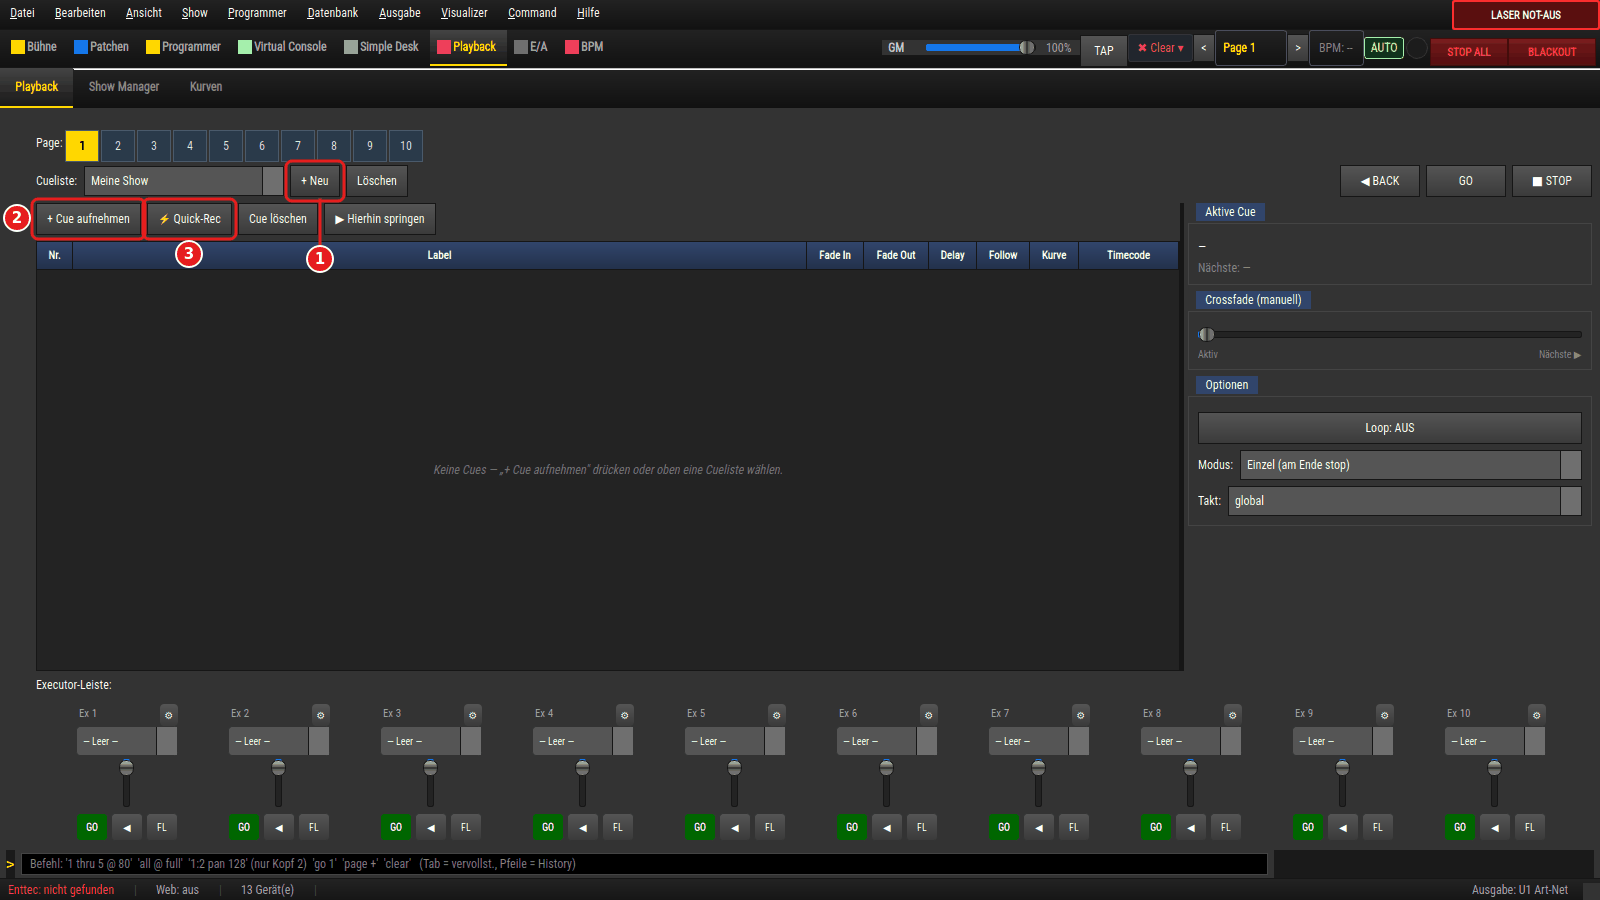
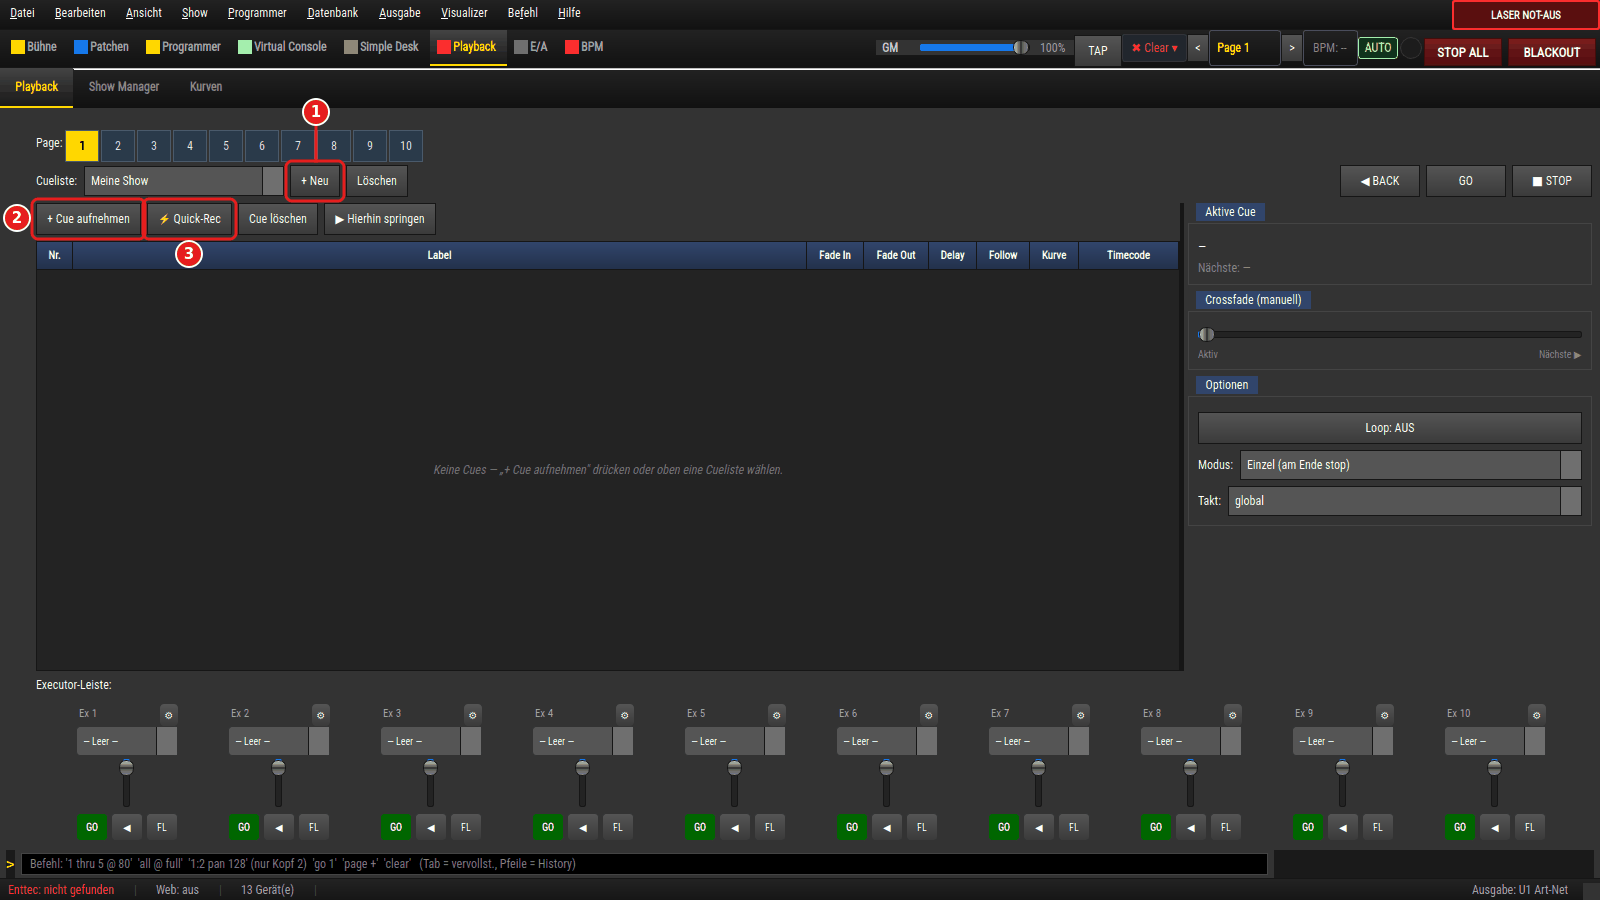
docs: Anleitungsbilder nachgebessert (DOC-16)
Nach der Gegenpruefung der neu gerenderten Bilder:

- VC-Cueliste (szenen_cues/10, showcase club_01/theater_01) nach dem
  UI-144-Fix neu gerendert: die laufende Cue ist wieder blau hinterlegt.
- Fixture-Editor fuer die Aufnahme 830 statt 760 px hoch (seit FM-64 ist
  der Kopf hoeher): in 06 ist die Kanal-Knopfreihe samt Markierung 4 ganz
  sichtbar (die Szene prueft das und bricht sonst ab), 04 zeigt alle sechs
  Kanalzeilen; 05/07 folgen derselben Groesse. Der Rahmen 1 um den Kopf
  in 04 rechnet jetzt aus dem Rollbereich in Dialog-Koordinaten um.
- Nummernkreis: neue Lage "innen" (freie Ecke im eigenen Rahmen, auch in
  kleinen Kacheln) und fester Versatz (dx, dy) fuer Stellen ohne freien
  Platz. Genutzt in 05_snapshots (Kreis 2 im Slot statt auf "Speichern"),
  09_go (Kreis 4 oben rechts in "Aktive Cue") und 07_cueliste_neu (Kreis 1
  wieder ueber "+ Neu" statt auf der Tabellenkopfzeile).
- Test: tests/test_doc16_marker_innen_versatz.py.

diff --git a/tests/test_doc16_marker_innen_versatz.py b/tests/test_doc16_marker_innen_versatz.py
@@ -1,0 +1,98 @@
+"""DOC-16 (Nachbesserung nach der Gegenpruefung) — zwei Lagen fuer den Nummernkreis.
+
+Reine Geometrie von ``marker.platzieren`` (nur ``QRect``/``QPoint``, keine App):
+
+* ``"innen"``: eine Kachel, die rundum Nachbarn hat (Snapshot-Slot zwischen
+  Slot 1, Slot 3, der Werkzeugleiste und Slot 14), bekommt den Kreis in eine
+  freie Ecke INNERHALB des eigenen Rahmens — auch wenn der Rahmen kleiner ist,
+  als die Suche sonst fuer „innen" verlangt. Vorher landete er auf dem
+  Nachbarknopf „Speichern".
+* ``(dx, dy)``: fester Versatz zur Rahmenmitte, mit Verbindungslinie, wenn der
+  Kreis nicht am Rahmen haengt; ins Bild geklemmt.
+* Ohne Angabe bleibt die alte Wahl (kleine Kachel -> nie innen).
+"""
+import os
+import sys
+import unittest
+
+REPO = os.path.dirname(os.path.dirname(os.path.abspath(__file__)))
+TOOLS = os.path.join(REPO, "tools")
+if TOOLS not in sys.path:
+    sys.path.insert(0, TOOLS)
+
+
+class InnenUndVersatzTest(unittest.TestCase):
+    def setUp(self):
+        from PySide6.QtCore import QRect
+        from anleitungsbilder import marker
+        self.m, self.QRect = marker, QRect
+        # Slot 2 (96 x 40) zwischen Nachbarn wie im Bild 05_snapshots.
+        self.slot = QRect(133, 207, 96, 40)
+        self.nachbarn = [
+            QRect(36, 207, 94, 40),      # Slot 1
+            QRect(232, 207, 94, 40),     # Slot 3
+            QRect(133, 251, 96, 40),     # Slot 14
+            QRect(36, 170, 72, 30),      # Alle leeren
+            QRect(115, 170, 68, 30),     # Speichern
+            QRect(189, 170, 51, 30),     # Laden
+            QRect(246, 170, 87, 30),     # Importieren...
+        ]
+
+    def _innen(self, c, rahmen):
+        f = self.m._kreisfeld(c)
+        return rahmen.contains(f)
+
+    def test_innen_setzt_kreis_in_den_eigenen_rahmen(self):
+        (c, linie, gefunden), = self.m.platzieren(
+            [self.slot], 1600, 900, self.nachbarn, ["innen"])
+        self.assertTrue(gefunden)
+        self.assertFalse(linie)
+        rahmen = self.m.rahmen_von(self.slot, 1600, 900)
+        self.assertTrue(self._innen(c, rahmen), c)
+        feld = self.m._kreisfeld(c)
+        for n in self.nachbarn:
+            self.assertFalse(feld.intersects(n), (c, n))
+
+    def test_ohne_innen_bleibt_kleine_kachel_aussen(self):
+        (c, _linie, _gefunden), = self.m.platzieren(
+            [self.slot], 1600, 900, self.nachbarn, [None])
+        rahmen = self.m.rahmen_von(self.slot, 1600, 900)
+        self.assertFalse(self._innen(c, rahmen), c)
+
+    def test_innen_respektiert_andere_rahmen_und_kreise(self):
+        # Zwei Slots nebeneinander, beide innen: die Kreise beruehren sich nicht
+        # und keiner sitzt im Rahmen des anderen.
+        a, b = self.QRect(36, 207, 94, 40), self.slot
+        (ca, _l1, g1), (cb, _l2, g2) = self.m.platzieren(
+            [a, b], 1600, 900, self.nachbarn[2:], ["innen", "innen"])
+        self.assertTrue(g1 and g2)
+        self.assertFalse(self.m._kreisfeld(ca).intersects(self.m._kreisfeld(cb)))
+        self.assertTrue(self._innen(ca, self.m.rahmen_von(a, 1600, 900)))
+        self.assertTrue(self._innen(cb, self.m.rahmen_von(b, 1600, 900)))
+
+    def test_fester_versatz_mit_linie(self):
+        ziel = self.QRect(288, 164, 53, 34)            # „+ Neu"
+        (c, linie, gefunden), = self.m.platzieren(
+            [ziel], 1600, 900, self.nachbarn, [(2, -68)])
+        rahmen = self.m.rahmen_von(ziel, 1600, 900)
+        self.assertTrue(gefunden)
+        self.assertEqual((c.x(), c.y()),
+                         (rahmen.center().x() + 2, rahmen.center().y() - 68))
+        self.assertTrue(linie)                          # haengt nicht am Rahmen
+
+    def test_fester_versatz_dicht_am_rahmen_ohne_linie(self):
+        ziel = self.QRect(300, 200, 80, 30)
+        rahmen = self.m.rahmen_von(ziel, 1600, 900)
+        dy = -(rahmen.height() // 2 + self.m._RADIUS + 1)
+        (c, linie, _g), = self.m.platzieren([ziel], 1600, 900, [], [(0, dy)])
+        self.assertFalse(linie)
+
+    def test_fester_versatz_wird_ins_bild_geklemmt(self):
+        ziel = self.QRect(5, 5, 40, 20)
+        (c, _linie, _g), = self.m.platzieren([ziel], 800, 600, [], [(-200, -200)])
+        feld = self.m._kreisfeld(c)
+        self.assertTrue(self.QRect(0, 0, 800, 600).contains(feld), c)
+
+
+if __name__ == "__main__":
+    unittest.main()

diff --git a/tools/anleitungsbilder/marker.py b/tools/anleitungsbilder/marker.py
@@ -19,7 +19,12 @@ der
 * keinen anderen Rahmen und keinen anderen Kreis beruehrt.
 
 Eine in der Szene angegebene Lage (``links``/``rechts``/``oben``/``unten``)
-wird zuerst probiert, bei einer Kollision aber verworfen. :func:`platzieren`
+wird zuerst probiert, bei einer Kollision aber verworfen. ``innen`` setzt den
+Kreis zuerst in eine freie Ecke INNERHALB des Rahmens (auch eines kleinen, etwa
+einer Kachel, die rundum Nachbarn hat). Ein Zahlenpaar ``(dx, dy)`` setzt ihn
+fest um diesen Versatz neben die Rahmenmitte (mit Verbindungslinie, wenn er
+nicht am Rahmen haengt) — nur fuer Stellen, an denen die Suche nichts Freies
+findet. :func:`platzieren`
 ist reine Geometrie (nur ``QRect``/``QPoint``) und ohne App testbar.
 """
 from __future__ import annotations
@@ -182,6 +187,16 @@ def platzieren(ziele, breite: int, hoehe: int, hindernisse=(), vorzuege=None,
     aus = []
     reichweite = _ABSTAENDE[-1] + 2 * r + 6
     for i, ziel in enumerate(ziele):
+        vz = vorzuege[i]
+        if isinstance(vz, (tuple, list)) and len(vz) == 2:
+            # Fester Versatz zur Rahmenmitte: nur fuer Stellen, an denen die
+            # Suche keinen freien Platz findet (die Szene prueft das Bild).
+            m = rahmen[i].center()
+            c = _geklemmt(QPoint(m.x() + int(vz[0]), m.y() + int(vz[1])),
+                          r + 2, breite, hoehe)
+            aus.append((c, _luecke(rahmen[i], c, r) > 5, True))
+            belegt.append(_kreisfeld(c, r))
+            continue
         # Nur was in Reichweite eines Kandidaten liegt (spart Rechenzeit).
         umfeld = rahmen[i].adjusted(-reichweite, -reichweite, reichweite, reichweite)
         nahe = [h for h in hindernisse if h.intersects(umfeld)]
@@ -238,7 +253,16 @@ def platzieren(ziele, breite: int, hoehe: int, hindernisse=(), vorzuege=None,
             g = _geklemmt(c, r + 2, breite, hoehe)
             if abs(g.x() - c.x()) + abs(g.y() - c.y()) <= r:
                 liste.append((g, aussen))
-        for c, aussen in liste:
+        if vorzuege[i] == "innen":
+            # Ausdruecklich innen (z. B. eine Kachel, rundum von Nachbarn
+            # umgeben): auch in einem kleinen Rahmen, und vor allen
+            # Plaetzen aussen. Die Szene stellt sicher, dass die Ecke frei ist.
+            for c, aussen in liste:
+                if not aussen and frei(_kreisfeld(c, r), fremd_innen) \
+                        and eindeutig(c):
+                    wahl = (c, False)
+                    break
+        for c, aussen in ([] if wahl is not None else liste):
             feld = _kreisfeld(c, r)
             if not aussen:
                 # Innen nur in grossen Rahmen (Bereiche, Listen) — in einem

diff --git a/tools/anleitungsbilder/szenen_geraete_bibliothek.py b/tools/anleitungsbilder/szenen_geraete_bibliothek.py
@@ -65,7 +65,10 @@ LEISTE_GRUPPE = "Weiß-Leiste"
 LEISTE_ADRESSE = 101
 MATRIX_NAME = "Leiste Regenbogen"
 
-EDITOR_GROESSE = (1060, 760)
+# Hoehe: seit FM-64 (Abstrahlwinkel + „Vorschau zeigen") ist der Kopf rund
+# 70 px hoeher; bei 760 lag die Kanal-Knopfreihe halb unter dem Rand des
+# Rollbereichs (Gegenpruefung DOC-16). 830 passt noch ins 900-px-Bild.
+EDITOR_GROESSE = (1060, 830)
 
 
 # ── Hilfen ──────────────────────────────────────────────────────────────────
@@ -233,8 +236,13 @@ def _editor_eigen(ui):
 def _bild_editor(ui):
     from PySide6.QtWidgets import QDialogButtonBox, QFormLayout
     dlg, tab = _editor_eigen(ui)
+    from PySide6.QtCore import QRect
     form = dlg.findChildren(QFormLayout)[0]
-    kopf = form.geometry()
+    # Das Formular liegt seit FM-74 im Rollbereich: seine Geometrie ist in
+    # Koordinaten des Inhalts, nicht des Dialogs (sonst sitzt der Rahmen ein
+    # Stueck links oben versetzt und schneidet die letzte Zeile).
+    g = form.geometry()
+    kopf = QRect(form.parentWidget().mapTo(dlg, g.topLeft()), g.size())
     if tab.segment_hinweis_sichtbar():
         raise SzenenFehler("FM-46-Hinweis bei einem einfachen PAR sichtbar")
     tbl = tab._tbl
@@ -273,6 +281,20 @@ def _editor_leiste(ui):
     return dlg, tab
 
 
+def _ganz_zeigen(ui, dlg, widget):
+    """``widget`` im Rollbereich des Editors ganz sichtbar machen; sonst
+    Abbruch, statt eine Markierung auf einen halb verdeckten Knopf zu setzen."""
+    from PySide6.QtCore import QPoint, QRect
+    from src.ui.widgets.dialog_groesse import InhaltsRollbereich
+    roll = dlg.findChildren(InhaltsRollbereich)[0]
+    roll.ensureWidgetVisible(widget, 0, 8)
+    ui.pump(0.1)
+    vp = roll.viewport()
+    r = QRect(widget.mapTo(vp, QPoint(0, 0)), widget.size())
+    if not vp.rect().contains(r):
+        raise SzenenFehler(f"{widget.text()!r} liegt nicht ganz im Rollbereich")
+
+
 def _segment_zellen(tab):
     from src.core.dimmer_segmente import ist_dimmer
     return [i for i, ch in enumerate(tab.channels) if ist_dimmer(ch.get("attribute"))]
@@ -287,6 +309,7 @@ def _bild_segment_hinweis(ui):
     zelle = rechteck(dlg, tbl.cellWidget(zeilen[0], 5))
     if tbl.cellWidget(zeilen[0], 5).currentText() != "—":
         raise SzenenFehler("Dimmer 1 hat schon ein Segment")
+    _ganz_zeigen(ui, dlg, tab._btn_vorschlag)
     return bild(ui, dlg, [
         (rechteck(dlg, tab._lbl_segment_hinweis), 1, "rechts"),
         (_spaltenkopf(tbl, dlg, "Weiß-Segment"), 2, "oben"),

diff --git a/tools/anleitungsbilder/szenen_szenen_cues.py b/tools/anleitungsbilder/szenen_szenen_cues.py
@@ -443,7 +443,9 @@ SZENEN = [
           titel="Snapshots: 48 Schnellzugriff-Slots",
           vorher=_snapshots, nachher=_snapshots_weg,
           marken=[(_slot(1), 1, "gefüllter Slot"),
-                  (_slot(2), 2, "leerer Slot")]),
+                  # Rundum Nachbar-Slots und die Werkzeugleiste: der Kreis
+                  # sitzt in der freien Ecke des Slots selbst.
+                  (_slot(2), 2, "leerer Slot", "innen")]),
     Szene("06_preset_browser", sektion="Programmer", unterreiter="Preset-Browser",
           titel="Preset-Browser: Suche nach „PAR“",
           vorher=_preset_browser, nachher=_preset_zurueck,
@@ -453,7 +455,10 @@ SZENEN = [
     Szene("07_cueliste_neu", sektion="Playback", unterreiter="Playback",
           titel="Neue, leere Cueliste",
           vorher=_neue_cueliste,
-          marken=[("+ Neu", 1, "+ Neu"),
+          # Rund um „+ Neu" ist alles belegt (Page-Leiste, Auswahlfeld,
+          # „Löschen", Knopfreihe darunter): Kreis fest darueber, ueber der
+          # Page-Leiste, Linie durch die Luecke zwischen Page 7 und 8.
+          marken=[("+ Neu", 1, "+ Neu", (2, -68)),
                   ("+ Cue aufnehmen", 2, "+ Cue aufnehmen"),
                   ("⚡ Quick-Rec", 3, "Quick-Rec")]),
     Szene("08_executor", sektion="Playback", unterreiter="Playback",
@@ -467,7 +472,8 @@ SZENEN = [
           marken=[("GO", 1, "GO"),
                   ("◀ BACK", 2, "BACK"),
                   ("■ STOP", 3, "STOP"),
-                  (_aktive_cue, 4, "Aktive Cue")]),
+                  # Links liegt die Cuetabelle dicht an: innen oben rechts.
+                  (_aktive_cue, 4, "Aktive Cue", "innen")]),
     Szene("10_vc_cueliste", sektion="Virtual Console",
           titel="Cueliste in der Virtual Console",
           vorher=_vc_cueliste, nachher=_alles_abraeumen, warte_s=0.8,
